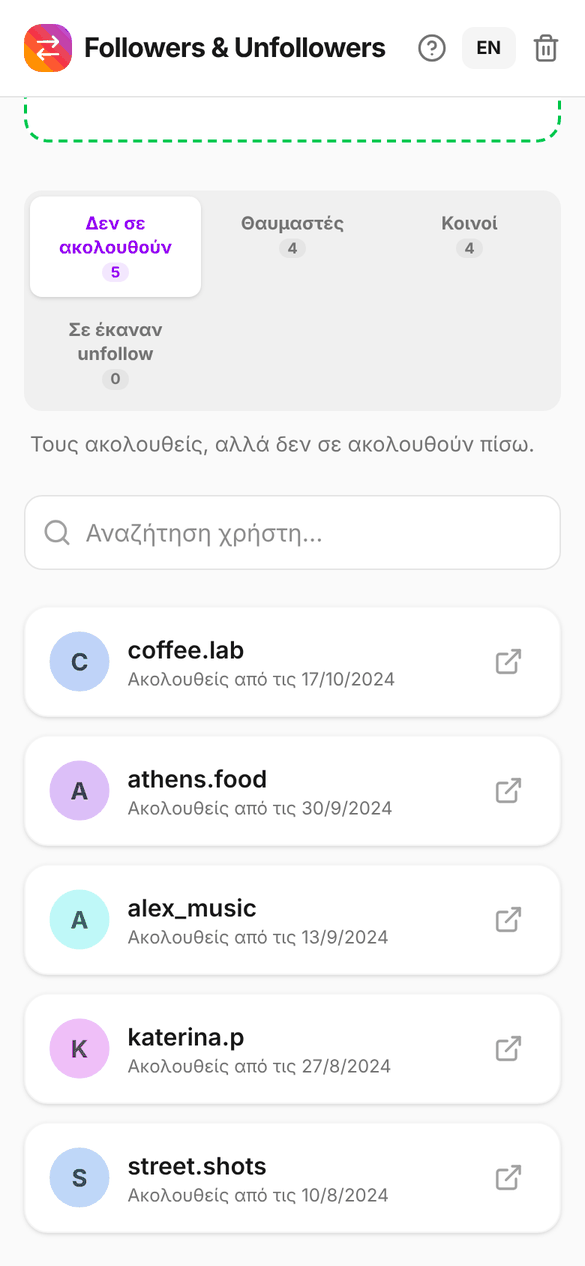
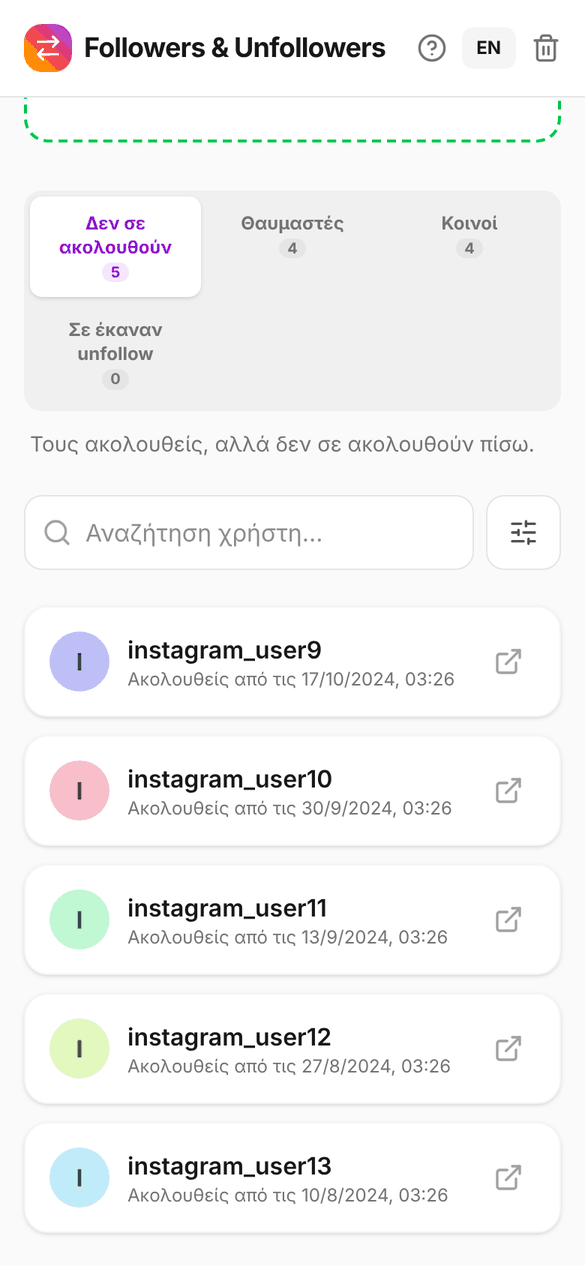
v1.4.1
- README screenshots use generic usernames (instagram_userN)
- Avatar colours: better hash so similar usernames get clearly different colours

diff --git a/src/history.ts b/src/history.ts
@@ -115,8 +115,16 @@ export function dateFromZipName(name: string): number | undefined {
 
 /** Stable pastel colours per username, so people are easier to tell apart */
 export function avatarColors(name: string) {
-  let h = 0;
-  for (const c of name.toLowerCase()) h = (h * 31 + c.charCodeAt(0)) >>> 0;
-  const hue = h % 360;
+  // FNV-1a hash plus a final mix, so names that differ by one character
+  // (e.g. user1 / user2) still get clearly different hues
+  let h = 0x811c9dc5;
+  for (const c of name.toLowerCase()) {
+    h ^= c.charCodeAt(0);
+    h = Math.imul(h, 0x01000193);
+  }
+  h ^= h >>> 16;
+  h = Math.imul(h, 0x45d9f3b);
+  h ^= h >>> 16;
+  const hue = (h >>> 0) % 360;
   return { background: `hsl(${hue} 80% 86%)`, color: `hsl(${hue} 60% 28%)` };
 }
